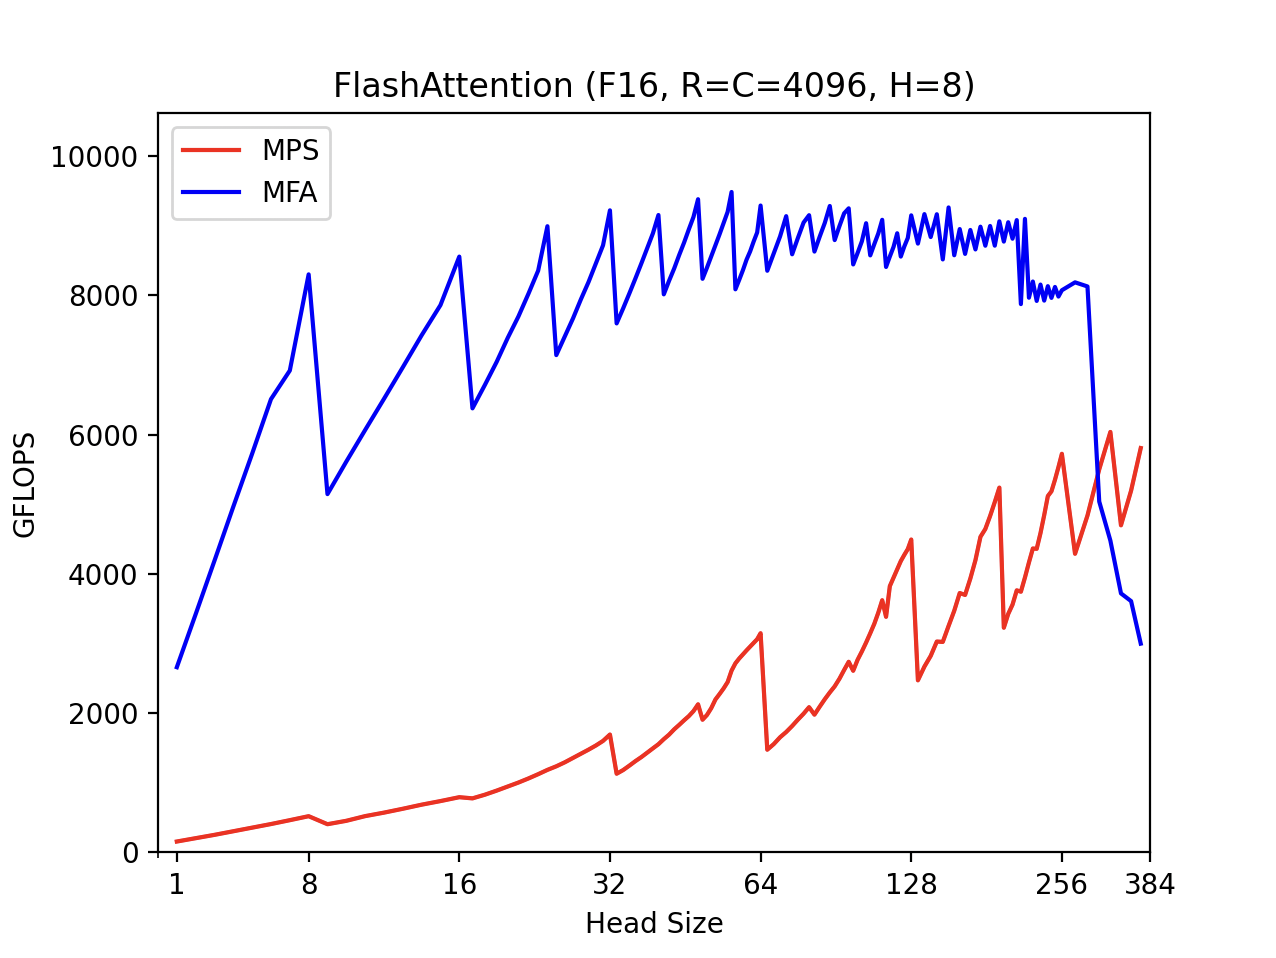
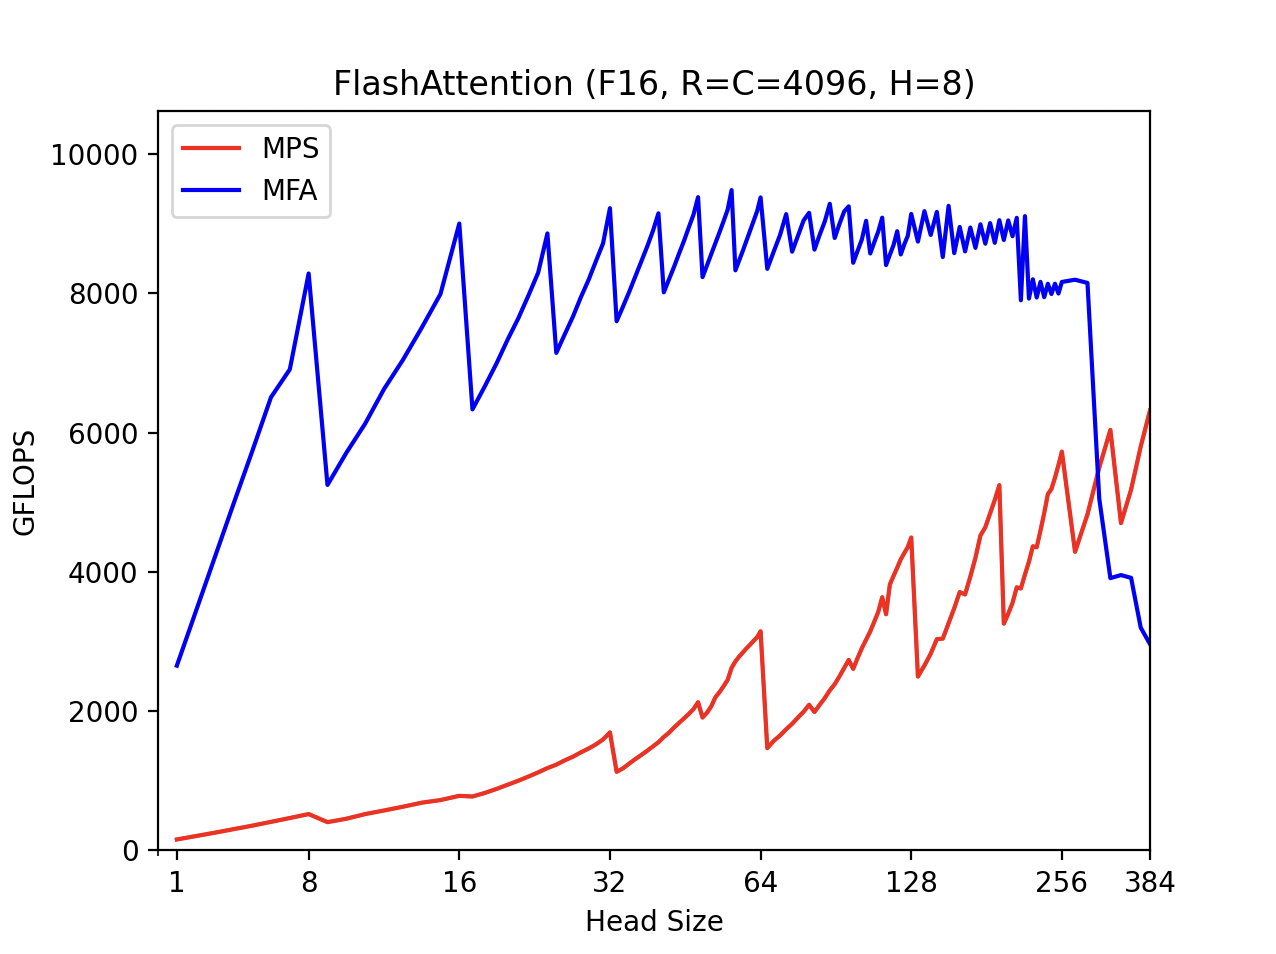
Update CI with more predictable performance

diff --git a/Tests/Test Cases/AttentionPerfTests.swift b/Tests/Test Cases/AttentionPerfTests.swift
@@ -39,7 +39,7 @@ class AttentionPerfTests: MFATestCase {
 //    let duration = Duration(granularity: 2, length: 2)
 //    let (domain, ranges) = rangeSequenceScaling(
 //      duration: duration, type: .causal)
-
+//
 //    let backends = SequenceType.causal.backends
 //    let backends: [AttentionBackend] = [.mfa]
     
@@ -359,19 +359,19 @@ class AttentionPerfTests: MFATestCase {
     let domain = 0...384
     let parameters: [SIMD4<Int>] = [
       // Prototyping:
-      SIMD4(granularity, 32,  16, granularity * 1),
-      SIMD4(         32, 64,   8, granularity * 1),
-      SIMD4(         64, 160,  4, granularity * 2),
-      SIMD4(        160, 385,  4, granularity * 4),
-      
-      // Production:
 //      SIMD4(granularity, 32,  16, granularity * 1),
 //      SIMD4(         32, 64,   8, granularity * 1),
-//      SIMD4(         64, 128,  4, granularity * 2),
-//      SIMD4(        128, 256,  2, granularity * 4),
-//      SIMD4(        256, 385,  2, granularity * 16),
+//      SIMD4(         64, 160,  4, granularity * 2),
+//      SIMD4(        160, 385,  4, granularity * 4),
+      
+      // Production:
+      SIMD4(granularity, 32,  16, granularity * 1),
+      SIMD4(         32, 64,   8, granularity * 1),
+      SIMD4(         64, 128,  4, granularity * 2),
+      SIMD4(        128, 256,  2, granularity * 4),
+      SIMD4(        256, 385,  2, granularity * 16),
     ]
-    let sequenceLength = 2048
+    let sequenceLength = 4096
     
     return (domain, parameters.indices.map { i in
       let parameter = parameters[i]
@@ -636,10 +636,10 @@ class AttentionPerfTests: MFATestCase {
             let backendRepr = backend.description
             let configRepr = config.description
             let gflopsInt = Int(round(gflops))
-//            print("(\(backendRepr)) \(configRepr) - \(gflopsInt) GFLOPS")
+            print("(\(backendRepr)) \(configRepr) - \(gflopsInt) GFLOPS")
             
             if backendRepr.contains("MFA") {
-              print("\(config.D), \(gflopsInt)")
+//              print("\(config.D), \(gflopsInt)")
 //              print("\(config.R), \(gflopsInt)")
             }
           }

diff --git a/Tests/Operations/Attention.swift b/Tests/Operations/Attention.swift
@@ -97,7 +97,6 @@ struct MFA_Attention: Attention, MFA_Operation {
     var C_simd: UInt16
     var R_splits: UInt16
     var fuseAsyncLoads = false
-    var allowBankConflicts = false
     if dataType == .float {
       R_simd = 8
       C_simd = 32
@@ -149,8 +148,6 @@ struct MFA_Attention: Attention, MFA_Operation {
           C_simd = 40
           R_splits = 8
         }
-        
-        // TODO: Try C_simd=16,24 / R_splits=4 for D=97-384
       }
     }
     
@@ -188,9 +185,7 @@ struct MFA_Attention: Attention, MFA_Operation {
       // Pad 80 -> 88     (160B -> 176B)
       // Pad 96 -> 104    (192B -> 208B)
       let dimBytesModulo = dimBytes % 64
-      if allowBankConflicts {
-        return
-      } else if dimBytesModulo == 16 || dimBytesModulo == 48 {
+      if dimBytesModulo == 16 || dimBytesModulo == 48 {
         return
       } else if dimBytesModulo == 0 || dimBytesModulo == 32 {
         let bankOffsetBytes: UInt16 = 16

diff --git a/README.md b/README.md
@@ -4,7 +4,7 @@ A faster alternative to Metal Performance Shaders, a reference implementation of
 
 Algorithms:
 - [ ] Attention
-  - [x] Dense (87.0% ALU)
+  - [x] Dense (90.2% ALU)
   - [ ] Block-Sparse
   - [ ] Grouped Queries
 - [ ] Convolution
